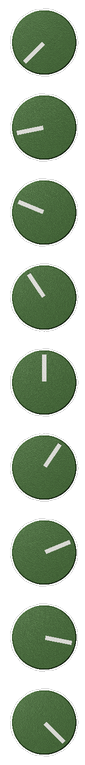
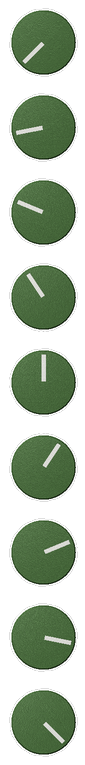
Stand the viewer back, and put the meter stack exactly where the art paints it
VIEWER_DISTANCE 16000 -> 26000, so the outermost knobs lean about 1.5 degrees
rather than 2.5. Bracketed the whole way now: 6000 far too much, 16000 still too
pronounced, 32000 too subtle to even confirm the sign by eye.

The meters were drawing 28 x 232 where the art paints 25.5 x 226.4, overhanging
3.3 px above and 2.8 below - which is the strip "sitting a bit too high" Ronald
spotted. The old METER_PAINTED bounds were a loose hand-taken rectangle; they
are now the exact extent of the painted LEDs, found by masking on saturated
colour, with no inset at all. The drawn stack replaces those LEDs, so it should
occupy the same rectangle and nothing more.

diff --git a/tools/make-assets.py b/tools/make-assets.py
@@ -71,12 +71,12 @@ SUPERSAMPLE = 2
 # larger means a more distant viewer and a flatter panel. 32000 puts about one
 # degree on the outermost knobs, which is enough to read as depth and not enough
 # to look like a fisheye.
-# Larger means a more distant viewer and a flatter panel. Settled at 16000
-# after bracketing it: 32000 (about 1 degree at the extremes) was too subtle to
-# even confirm the direction by eye, and 6000 was clearly too much. 16000 puts
-# roughly 2.5 degrees on the outermost knobs - enough to read as depth without
-# announcing itself.
-VIEWER_DISTANCE = 16000.0
+# Larger means a more distant viewer and a flatter panel. Bracketed: 6000 was
+# far too much, 16000 still too pronounced, 32000 too subtle to even confirm the
+# direction by eye when the sign was wrong. 26000 puts about 1.5 degrees on the
+# outermost knobs - the viewer standing back, the panel nearly flat, but not so
+# flat that the knobs stop looking like separate objects.
+VIEWER_DISTANCE = 26000.0
 # Eye height is on the HMF row, not the geometric middle of the panel. Ronald's
 # call: that is where you actually look when the thing is in front of you, a bit
 # above centre. It also spreads the vertical lean more evenly across the four
@@ -155,12 +155,17 @@ KNOBS = [
 # they replace and sat hard against the bevel. Measured on a live capture that
 # left 3 px of margin on the left and 5 on the right, reading as both cramped
 # and off-centre.
+# The exact extent of the LEDs painted into the render, found by masking on
+# saturated colour rather than eyeballed. The drawn stack REPLACES these, so it
+# should occupy the same rectangle - no inset, no padding. The previous values
+# were a looser hand-taken bound and drew 28x232 where the art paints 25.5x226,
+# overhanging 3.3 px above and 2.8 below, which reads as the strip sitting high.
 METER_PAINTED = {
-    'kInputMeter':  (153, 198, 211, 652),
-    'kOutputMeter': (316, 198, 374, 652),
+    'kInputMeter':  (158, 208, 206, 642),
+    'kOutputMeter': (320, 208, 368, 642),
 }
-METER_MARGIN_X = 2      # art px inset from the painted LEDs, each side
-METER_MARGIN_Y = 4
+METER_MARGIN_X = 0      # art px inset from the painted LEDs, each side
+METER_MARGIN_Y = 0
 
 METERS = {tag: (x0 + METER_MARGIN_X, y0 + METER_MARGIN_Y,
                 x1 - METER_MARGIN_X, y1 - METER_MARGIN_Y)
@@ -209,6 +214,11 @@ def _parse_args():
                          'a panel drawn face-on is a lie about where the viewer '
                          'is standing')
     ap.add_argument('--out', default=OUT, help='where to write the assets')
+    ap.add_argument('--skip-knobs', action='store_true',
+                    help='reuse the existing filmstrips and only redo the '
+                         'backplate and the .uidesc. The 99 knob renders are '
+                         'nearly all of the runtime, and a meter or layout '
+                         'tweak does not touch them')
     return ap.parse_args()
 
 
@@ -233,8 +243,8 @@ def main():
     # inset here produced.
     art = ImageDraw.Draw(panel)
     for (x0, y0, x1, y1) in METER_PAINTED.values():
-        art.rectangle([round(x0 * scale) - 1, round(y0 * scale) - 1,
-                       round(x1 * scale) + 1, round(y1 * scale) + 1],
+        art.rectangle([round(x0 * scale) - 2, round(y0 * scale) - 2,
+                       round(x1 * scale) + 2, round(y1 * scale) + 2],
                       fill=(0, 0, 0))
 
     panel.save(os.path.join(OUT, 'backplate.png'))
@@ -252,6 +262,16 @@ def main():
         _painted[name] = tuple(int(v) for v in np.median(patch.reshape(-1, 3), axis=0))
 
     for name, cx, cy, cap_r, tag, steps in KNOBS:
+        if SKIP_KNOBS:
+            strip = Image.open(os.path.join(OUT, f'knob_{name}.png'))
+            fd = strip.size[0]
+            off = fd // 2
+            ox = int(round(cx * scale)) - off
+            oy = int(round(cy * scale)) - off
+            layout['knobs'][name] = dict(origin=[ox, oy], size=[fd, fd],
+                                         frames=steps, tag=tag)
+            print(f'knob_{name}.png  reused  {fd}x{fd}  origin=({ox},{oy})')
+            continue
         painted = _painted[CAP_ALIAS.get(name, name)]
         # Solve for the albedo that RENDERS as the painted colour, then push the
         # saturation past it a little: the panel art's caps are already muted by
@@ -419,9 +439,12 @@ def _tilted(deg):
     return ctx()
 
 
+SKIP_KNOBS = False
+
 if __name__ == '__main__':
     _args = _parse_args()
     OUT = _args.out
+    SKIP_KNOBS = _args.skip_knobs
     with _tilted(_args.tilt):
         if _args.tilt:
             print(f'camera raised {_args.tilt:g} deg off the axis '
